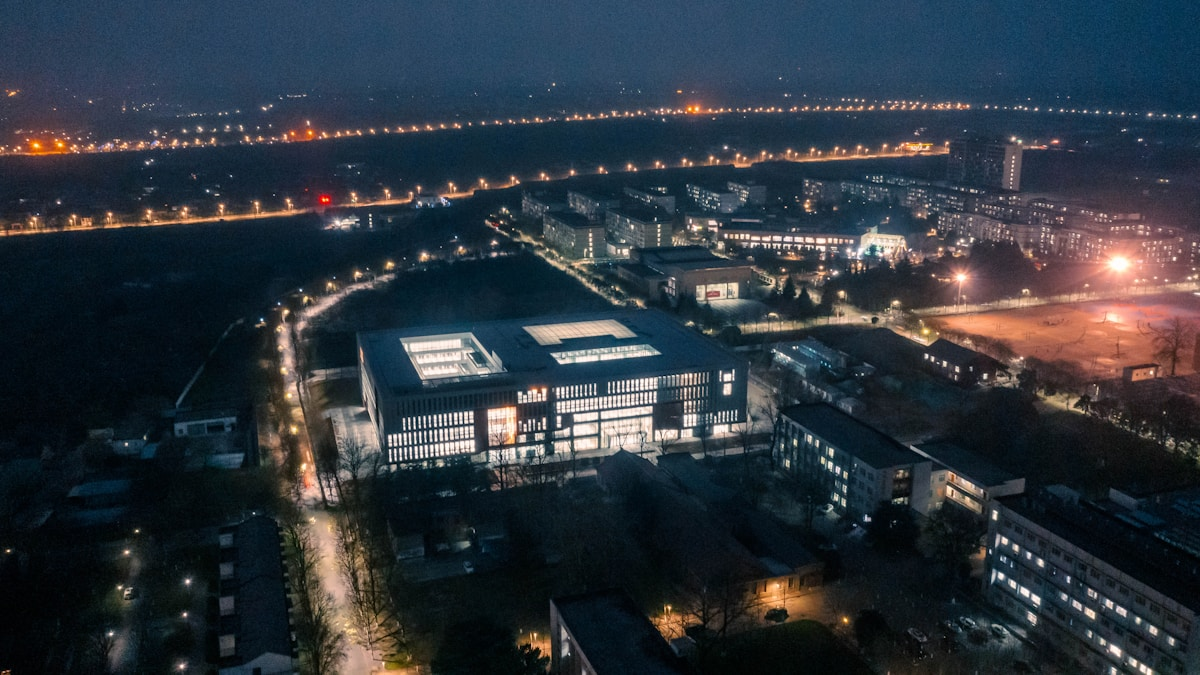
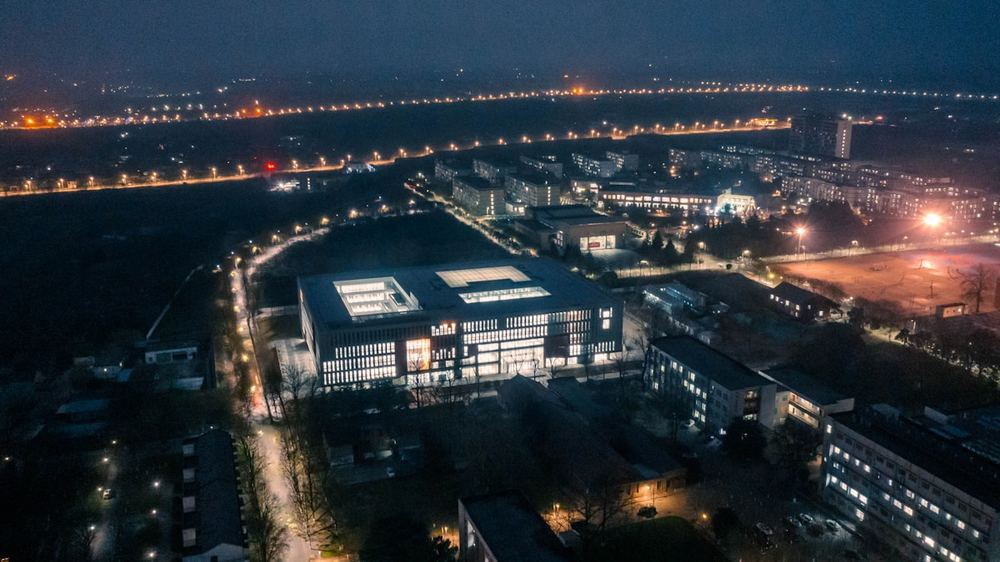
Performance: compress all images — 630KB total savings
- powerline-aerial: 479K → 236K (51% smaller)
- dc-rooftop-aerial: 306K → 158K (48% smaller)
- founder-adnan: 230K → 44K (81% smaller)
- facility-night-aerial: 192K → 93K (52% smaller)

All resized to max 1000px width with quality 78 + optimize.
Total page weight reduced by ~630KB across the site.

Created by BAHB

Changed region(s): [[0.341, 0.605, 0.372, 0.6655], [0.558, 0.5747, 0.589, 0.605], [0.465, 0.5747, 0.496, 0.605]]

diff --git a/.claude/ralph-loop.local.md b/.claude/ralph-loop.local.md
@@ -1,0 +1,10 @@
+---
+active: true
+iteration: 1
+session_id: 
+max_iterations: 0
+completion_promise: null
+started_at: "2026-03-22T18:28:44Z"
+---
+
+6-hour sprint: mobile, graphics, speed, attention to detail. Each iteration pick ONE element, improve it, build with PATH=/Users/aa/.nvm/versions/node/v24.12.0/bin:/usr/bin:/bin:/usr/sbin:/sbin npx astro build, deploy with PATH=/Users/aa/.nvm/versions/node/v24.12.0/bin:/usr/bin:/bin:/usr/sbin:/sbin wrangler pages deploy dist/ --project-name jinki-ai --branch main --commit-dirty=true. Focus: page speed optimization, mobile UX refinement, graphic improvements, micro-interactions. Never fabricate. --max-iterations 300
